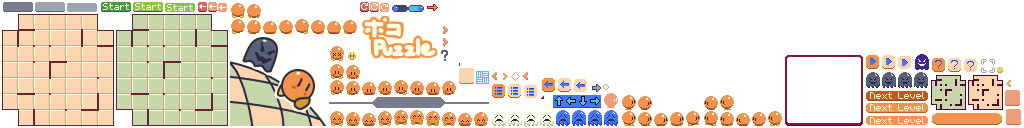
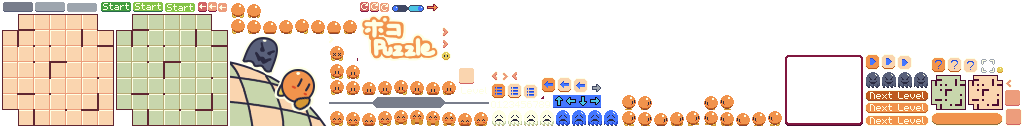
updated bg for custom color and image color

diff --git a/core/src/main/java/com/distraction/glj9/screens/PlayScreen.java b/core/src/main/java/com/distraction/glj9/screens/PlayScreen.java
@@ -3,7 +3,6 @@ package com.distraction.glj9.screens;
 import com.badlogic.gdx.Gdx;
 import com.badlogic.gdx.Input;
 import com.badlogic.gdx.audio.Music;
-import com.badlogic.gdx.graphics.Color;
 import com.badlogic.gdx.math.Interpolation;
 import com.badlogic.gdx.math.MathUtils;
 import com.distraction.glj9.Constants;
@@ -25,7 +24,6 @@ public class PlayScreen extends Screen {
 
     private final TileMap tileMap;
     private final Background bg;
-    private final Color bgColor;
     private final HUD hud;
 
     private boolean starting;
@@ -44,11 +42,9 @@ public class PlayScreen extends Screen {
 
         tileMap = new TileMap(context, level);
 
-        String s = level <= 12 ? "bg3" : level <= 24 ? "bg4" : "bg5";
         float dx = level <= 24 ? 5 : -5;
         float dy = level <= 12 ? -5 : 5;
-        bg = new Background(context, context.getImage(s), dx, dy, 24, 24);
-        bgColor = level <= 12 ? Constants.LEVEL_BG : level <= 24 ? Constants.LEVEL_BG_2 : Constants.LEVEL_BG_3;
+        bg = new Background(context, Utils.getBgColor(level), Utils.getBgImageColor(level), context.getImage(Utils.getBgImage(level)), dx, dy, 24, 24);
         hud = new HUD(
             context,
             tileMap,
@@ -221,9 +217,6 @@ public class PlayScreen extends Screen {
         sb.begin();
 
         sb.setProjectionMatrix(uiCam.combined);
-        sb.setColor(bgColor);
-        sb.draw(pixel, 0, 0, Constants.WIDTH, Constants.HEIGHT);
-        sb.setColor(Color.WHITE);
         bg.render(sb);
 
         sb.setProjectionMatrix(cam.combined);

diff --git a/core/src/main/java/com/distraction/glj9/utils/Background.java b/core/src/main/java/com/distraction/glj9/utils/Background.java
@@ -1,5 +1,6 @@
 package com.distraction.glj9.utils;
 
+import com.badlogic.gdx.graphics.Color;
 import com.badlogic.gdx.graphics.g2d.SpriteBatch;
 import com.badlogic.gdx.graphics.g2d.TextureRegion;
 import com.distraction.glj9.Constants;
@@ -11,12 +12,19 @@ public class Background extends Entity {
     private static final int W = Constants.WIDTH;
     public static final int H = Constants.HEIGHT;
 
+    private final TextureRegion pixel;
+
+    private final Color bgColor;
+    private final Color imageColor;
     private final TextureRegion image;
     private final float dx, dy, ox, oy;
     private final int numRows, numCols;
 
-    public Background(Context context, TextureRegion image, float dx, float dy, float ox, float oy) {
+    public Background(Context context, Color bgColor, Color imageColor, TextureRegion image, float dx, float dy, float ox, float oy) {
         super(context);
+        pixel = context.getPixel();
+        this.bgColor = bgColor;
+        this.imageColor = imageColor;
         this.image = image;
         this.dx = dx;
         this.dy = dy;
@@ -37,6 +45,9 @@ public class Background extends Entity {
 
     @Override
     public void render(SpriteBatch sb) {
+        sb.setColor(bgColor);
+        sb.draw(pixel, 0, 0, Constants.WIDTH, Constants.HEIGHT);
+        sb.setColor(imageColor);
         for (int row = -2; row < numRows; row++) {
             for (int col = -2; col < numCols; col++) {
                 sb.draw(image, x + col * 2 * ox + ((row & 1) == 0 ? 0 : ox), y + row * oy);

diff --git a/core/src/main/java/com/distraction/glj9/screens/LevelSelectScreen.java b/core/src/main/java/com/distraction/glj9/screens/LevelSelectScreen.java
@@ -50,7 +50,7 @@ public class LevelSelectScreen extends Screen {
         pixel = context.getPixel();
         titleBg = context.getImage("levelselecttitlebg");
         border = context.getImage("uiborder");
-        bg = new Background(context, context.getImage("bg2"), 2, 2, 16, 16);
+        bg = new Background(context, Constants.LEVEL_SELECT_BG, Constants.LEVEL_SELECT_BG_IMAGE, context.getImage("bglevelselect"), 2, 2, 16, 16);
 
         in = new Transition(context, Transition.Type.CHECKERED_IN, 0.5f, () -> ignoreInput = false);
         in.start();
@@ -228,8 +228,6 @@ public class LevelSelectScreen extends Screen {
     public void render() {
         sb.begin();
         sb.setProjectionMatrix(cam.combined);
-        sb.setColor(Constants.LEVEL_SELECT_BG);
-        sb.draw(pixel, 0, 0, Constants.WIDTH, Constants.HEIGHT);
         bg.render(sb);
         sb.setColor(Constants.DIM_BG);
         sb.draw(pixel, 3, 2, border.getRegionWidth() - 3, border.getRegionHeight() - 2);
@@ -251,8 +249,8 @@ public class LevelSelectScreen extends Screen {
                 levelTiles[row][col].render(sb);
             }
         }
-        pageLeft.render(sb);
-        pageRight.render(sb);
+        if (page > 0) pageLeft.render(sb);
+        if (page < maxPages) pageRight.render(sb);
         font.draw(sb, difficultyText, ox, 13);
 
         preview.render(sb);

diff --git a/core/src/main/java/com/distraction/glj9/Constants.java b/core/src/main/java/com/distraction/glj9/Constants.java
@@ -61,13 +61,19 @@ public class Constants {
     public static final Color SKY = COLORS[31];
     public static final Color TRANSPARENT = new Color(1, 1, 1, 0.5f);
 
-    public static final Color LEVEL_SELECT_BG = COLORS[6];
     public static final Color LEVEL_SELECT_TOP = COLORS[3];
     public static final Color DIM_BG = Color.valueOf("00000080");
+
+    public static final Color LEVEL_SELECT_BG = COLORS[6];
+    public static final Color LEVEL_SELECT_BG_IMAGE = COLORS[22];
     public static final Color LEVEL_BG = COLORS[21];
+    public static final Color LEVEL_BG_IMAGE = COLORS[20];
     public static final Color LEVEL_BG_2 = COLORS[30];
+    public static final Color LEVEL_BG_IMAGE_2 = COLORS[31];
     public static final Color LEVEL_BG_3 = COLORS[1];
-    public static final Color TUTORIAL_BG = COLORS[5];
+    public static final Color LEVEL_BG_IMAGE_3 = COLORS[28];
+    public static final Color TUTORIAL_BG = COLORS[2];
+    public static final Color TUTORIAL_BG_IMAGE = COLORS[3];
 
     public static final Color SETTINGS_BG = COLORS[20];
     public static final Color DIALOG_TEXT = COLORS[7];

diff --git a/core/src/main/java/com/distraction/glj9/screens/TutorialScreen1.java b/core/src/main/java/com/distraction/glj9/screens/TutorialScreen1.java
@@ -2,7 +2,6 @@ package com.distraction.glj9.screens;
 
 import com.badlogic.gdx.Gdx;
 import com.badlogic.gdx.Input;
-import com.badlogic.gdx.graphics.Color;
 import com.distraction.glj9.Constants;
 import com.distraction.glj9.Context;
 import com.distraction.glj9.tile.Direction;
@@ -46,7 +45,7 @@ public class TutorialScreen1 extends Screen {
 
         tileMap = new TileMap(context, -1);
 
-        bg = new Background(context, context.getImage("bgt"), 5, -5, 24, 24);
+        bg = new Background(context, Constants.TUTORIAL_BG, Constants.TUTORIAL_BG_IMAGE, context.getImage("bgtutorial"), 5, -5, 24, 24);
         hud = new HUD(
             context,
             tileMap,
@@ -303,9 +302,6 @@ public class TutorialScreen1 extends Screen {
         sb.begin();
 
         sb.setProjectionMatrix(uiCam.combined);
-        sb.setColor(Constants.TUTORIAL_BG);
-        sb.draw(pixel, 0, 0, Constants.WIDTH, Constants.HEIGHT);
-        sb.setColor(Color.WHITE);
         bg.render(sb);
 
         sb.setProjectionMatrix(cam.combined);

diff --git a/core/src/main/java/com/distraction/glj9/screens/TutorialScreen2.java b/core/src/main/java/com/distraction/glj9/screens/TutorialScreen2.java
@@ -2,7 +2,6 @@ package com.distraction.glj9.screens;
 
 import com.badlogic.gdx.Gdx;
 import com.badlogic.gdx.Input;
-import com.badlogic.gdx.graphics.Color;
 import com.distraction.glj9.Constants;
 import com.distraction.glj9.Context;
 import com.distraction.glj9.tile.TileMap;
@@ -32,7 +31,7 @@ public class TutorialScreen2 extends Screen {
 
         tileMap = new TileMap(context, -2);
 
-        bg = new Background(context, context.getImage("bgt"), 5, -5, 24, 24);
+        bg = new Background(context, Constants.TUTORIAL_BG, Constants.TUTORIAL_BG_IMAGE, context.getImage("bgtutorial"), 5, -5, 24, 24);
         hud = new HUD(
             context,
             tileMap,
@@ -159,9 +158,6 @@ public class TutorialScreen2 extends Screen {
         sb.begin();
 
         sb.setProjectionMatrix(uiCam.combined);
-        sb.setColor(Constants.TUTORIAL_BG);
-        sb.draw(pixel, 0, 0, Constants.WIDTH, Constants.HEIGHT);
-        sb.setColor(Color.WHITE);
         bg.render(sb);
 
         sb.setProjectionMatrix(cam.combined);

diff --git a/core/src/main/java/com/distraction/glj9/utils/Utils.java b/core/src/main/java/com/distraction/glj9/utils/Utils.java
@@ -1,8 +1,10 @@
 package com.distraction.glj9.utils;
 
 import com.badlogic.gdx.Gdx;
+import com.badlogic.gdx.graphics.Color;
 import com.badlogic.gdx.graphics.g2d.SpriteBatch;
 import com.badlogic.gdx.graphics.g2d.TextureRegion;
+import com.distraction.glj9.Constants;
 
 public class Utils {
 
@@ -76,6 +78,18 @@ public class Utils {
             }
         }
         return ret;
+    }
+
+    public static Color getBgColor(int level) {
+        return level <= 12 ? Constants.LEVEL_BG : level <= 24 ? Constants.LEVEL_BG_2 : Constants.LEVEL_BG_3;
+    }
+
+    public static Color getBgImageColor(int level) {
+        return level <= 12 ? Constants.LEVEL_BG_IMAGE : level <= 24 ? Constants.LEVEL_BG_IMAGE_2 : Constants.LEVEL_BG_IMAGE_3;
+    }
+
+    public static String getBgImage(int level) {
+        return level <= 12 ? "bgeasy" : level <= 24 ? "bghard" : "bgtricky";
     }
 
 }
